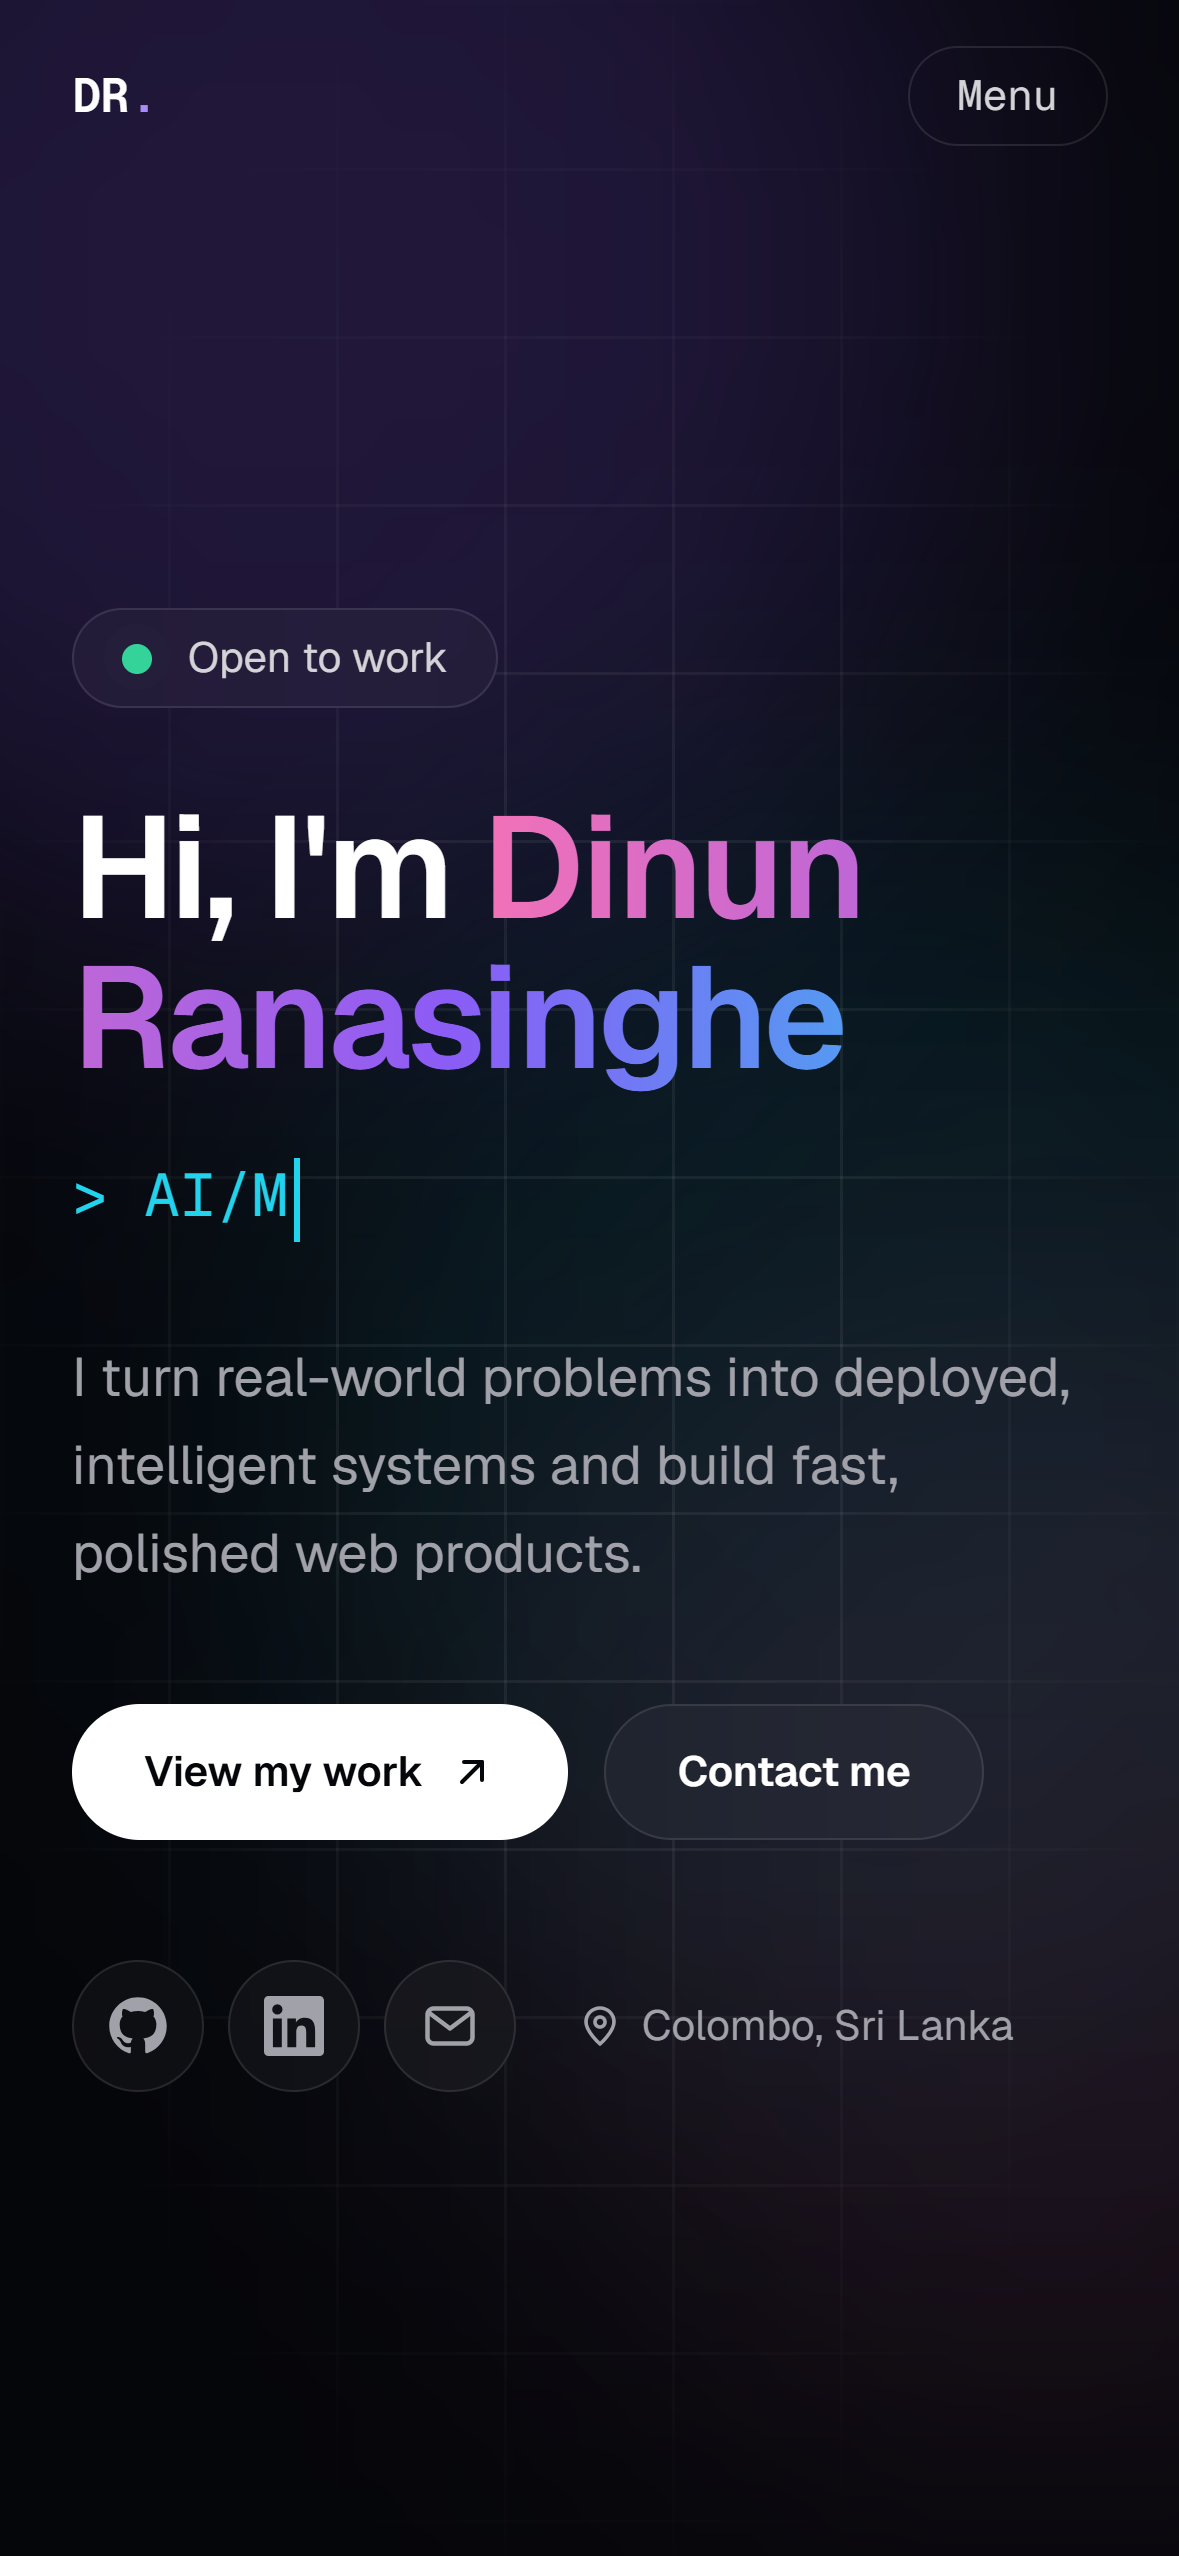
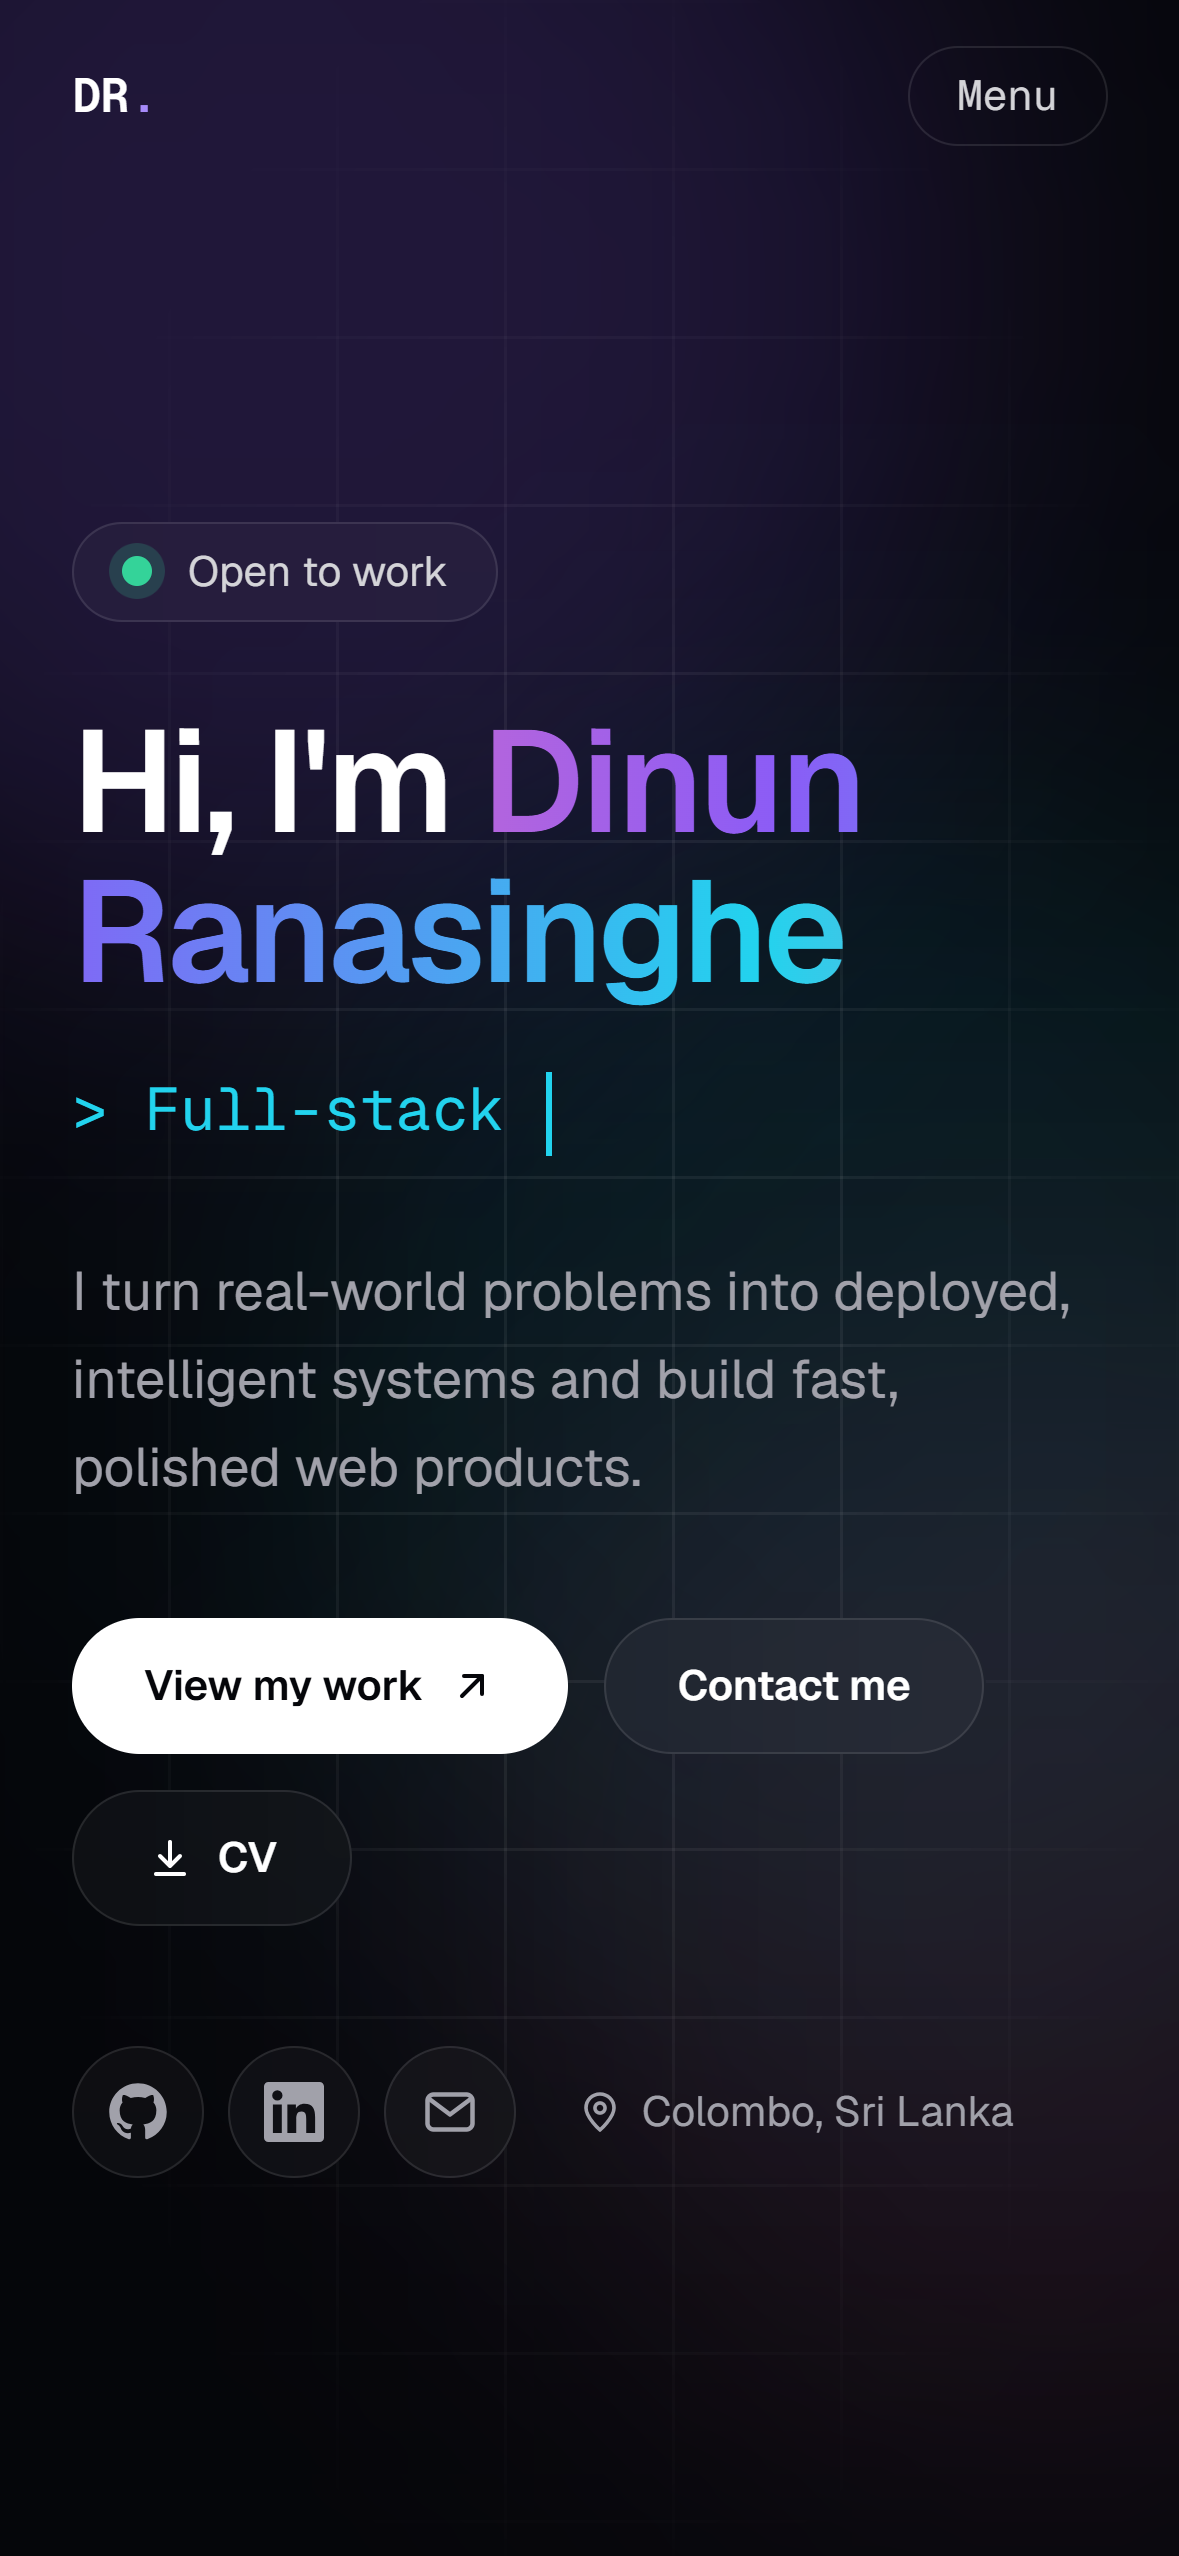
docs - updateed README for the finished site and refresh screenshots

diff --git a/README.md b/README.md
@@ -1,19 +1,35 @@
 # Dinun Ranasinghe | Portfolio
 
-A fast, animated developer portfolio built from scratch with Next.js, TypeScript and Tailwind CSS.
+I've created a fast, animated portfolio from scratch with Next.js, TypeScript and Tailwind CSS.
 
 **Live:** https://portfolio-dinun.vercel.app
 
-![Desktop screenshot](docs/screenshots/desktop.png)
+<p>
+  <img src="docs/screenshots/desktop.png" alt="Desktop screenshot of the portfolio" width="720" />
+  <img src="docs/screenshots/mobile.png" alt="Mobile (iPhone 16) screenshot of the portfolio" width="200" />
+</p>
 
 ## Features
 
 - Sections for About, Skills, Projects, Experience, Now and Contact
+- Hero with a typewriter role line, a floating `developer.ts` code window, a pulsing availability badge and a one-click **CV download**
+- Skills shown as animated percentage bars that fill as they scroll into view
+- Experience as a centred timeline whose cards alternate left and right, with a line that draws itself
 - All content in one typed file (`lib/data.ts`), so updating the site means editing data, not markup
 - Scroll reveals, spotlight and tilt cards, animated background (Framer Motion and CSS)
 - Sticky navigation with active-section highlighting and an accessible mobile menu
 - SEO: metadata, Open Graph image and favicon generated with `next/og`, sitemap, robots, JSON-LD
-- Accessibility: semantic HTML, skip link, visible focus, reduced-motion support, WCAG AA contrast
+- Accessibility: semantic HTML, skip link, visible focus, progress-bar roles for skill levels, reduced-motion support, WCAG AA contrast
+
+## Performance
+
+Lighthouse, mobile, production build (October 2026) opens in an incognito web:
+
+| Performance | Accessibility | Best Practices | SEO |
+| ----------- | ------------- | -------------- | --- |
+| 90          | 100           | 100            | 100 |
+
+Cumulative Layout Shift is 0. The remaining cost is mostly JavaScript, from the animation library and the framework runtime.
 
 ## Tech stack
 
@@ -28,23 +44,31 @@ npm run dev
 
 Open http://localhost:3000.
 
-| Script                 | What it does                      |
-| ---------------------- | --------------------------------- |
-| `npm run dev`          | Start the dev server              |
-| `npm run build`        | Production build                  |
-| `npm run lint`         | ESLint                            |
-| `npm run typecheck`    | TypeScript check                  |
-| `npm run format:check` | Prettier check                    |
-| `npm test`             | Unit and component tests (Vitest) |
-| `npm run test:e2e`     | End-to-end tests (Playwright)     |
+| Script                 | What it does                                      |
+| ---------------------- | ------------------------------------------------- |
+| `npm run dev`          | Start the dev server                              |
+| `npm run build`        | Production build                                  |
+| `npm run lint`         | ESLint                                            |
+| `npm run typecheck`    | TypeScript check                                  |
+| `npm run format:check` | Prettier check                                    |
+| `npm run verify`       | Lint, typecheck, format check and build in one go |
+| `npm test`             | Unit and component tests (Vitest)                 |
+| `npm run test:e2e`     | End-to-end tests (Playwright)                     |
+
+## Editing the content
+
+- Everything on the page comes from `lib/data.ts`: profile, skills (each with a 0 to 100 level), projects, experience and links.
+- To update the downloadable CV, replace `public/Dinun-Ranasinghe-CV.pdf` and keep the same file name.
 
 ## Project structure
 
 ```
 app/          layout, page, metadata routes (icon, Open Graph image, robots, sitemap)
-components/   section components and reusable animation blocks
+components/   section components, the Hero code window and reusable animation blocks
 lib/          typed content (data.ts), types, site URL helper
+public/       static assets (the CV PDF)
 e2e/          Playwright tests
+docs/         screenshots used in this README
 ```
 
 ## How it is built and shipped
@@ -53,13 +77,22 @@ e2e/          Playwright tests
 - GitHub Actions runs lint, typecheck, format check, unit tests, build and end-to-end tests on every PR.
 - `main` is protected: a PR and a passing `checks` job are required.
 - Vercel deploys `main` to production and creates a preview for every PR.
-- Dependabot opens weekly dependency PRs, which go through the same checks.
+- Dependabot opens weekly dependency PRs, grouping minor and patch updates, and they go through the same checks.
 
 ## Decisions
 
 - **No database.** The content changes rarely and lives in version control, so a database would add cost and failure modes for no benefit.
 - **Server components by default.** Only components that need state, effects or animation are client components.
-- **Tests at two levels.** Fast component and data-integrity tests, plus a few end-to-end tests of real user flows against the production build.
+- **Tests at two levels.** Fast component and data-integrity tests, plus a few end-to-end tests of real user flows against the production build. One of them downloads the CV and checks it is served as a PDF.
+- **Skill levels are numbers, not labels.** A 0 to 100 value renders as a real `progressbar` for screen readers, and a data test rejects anything outside that range.
+- **Major upgrades are deliberate.** Dependabot ignores major TypeScript and Tailwind releases. Tailwind 4 changes the config model, so it will be a planned migration in its own PR.
+- **Respect for reduced motion.** Every animation either checks the user's preference or is neutralised by a global rule.
+
+## Roadmap
+
+- Migrate to Tailwind CSS 4
+- Load Framer Motion features lazily to cut unused JavaScript on mobile
+- Optional contact form with server-side validation
 
 ## Author
 
